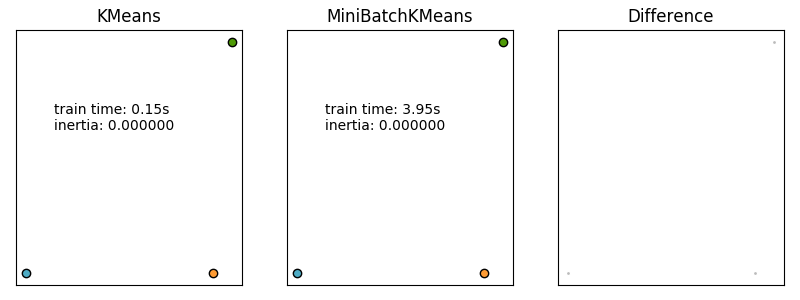
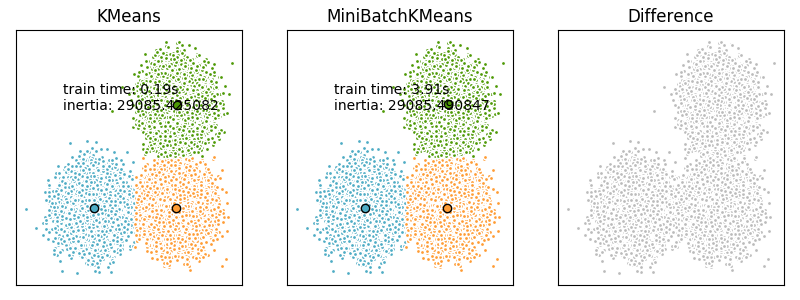
fixe plot

diff --git a/scykit.py b/scykit.py
@@ -21,11 +21,11 @@ if __name__ == '__main__':
   #config
   n_iter=int(sys.argv[1])
   n_samples=30000
-  cluster_std=0
+  cluster_std=0.7
   #Generate sample data
   np.random.seed(0)
-  batch_size = 45
-  centers = [[6, 6], [-5, -5], [5, -5]]
+  batch_size = 500
+  centers = [[2, 2], [-2, -2], [2, -2]]
   n_clusters = len(centers)
   X, labels_true = make_blobs(n_samples=n_samples, centers=centers, cluster_std=cluster_std)
   print(X.shape)
@@ -139,17 +139,23 @@ if __name__ == '__main__':
     ax.set_yticks(())
      
     n_diff =len(X[different,])
+    
     print('Clustering \'s difference: %d'%n_diff)
     ratio = n_diff/len(mbk_means_labels == 4)
     print('Difference \'s ratio: %f'%ratio)
     
+    if sys.argv[2] == '-p' or sys.argv[2] == '-pp':
+     plt.show()
     if (sys.argv[3] == '-f') and (sys.argv[4] != None):
      print('Saving...')
      plt.savefig(sys.argv[4])
      print('Done !')
     elif sys.argv[3] == '-f' and sys.argv[4] == None:
      print('Usage : -f PATH/NAME')
-    plt.show()
+    
+   
+    
+    
    
   except IndexError:
    pass 

diff --git a/README.md b/README.md
@@ -1,4 +1,4 @@
-Usage : python scykit.py 5 -p -f /home/inria/Desktop/scikit/plots/plot1.png
+Usage : python scykit.py iterations -p -f /home/inria/Desktop/scikit/plots/plot1.png
 
 first number : number of iteration for online mini batch k mean clustering
 
